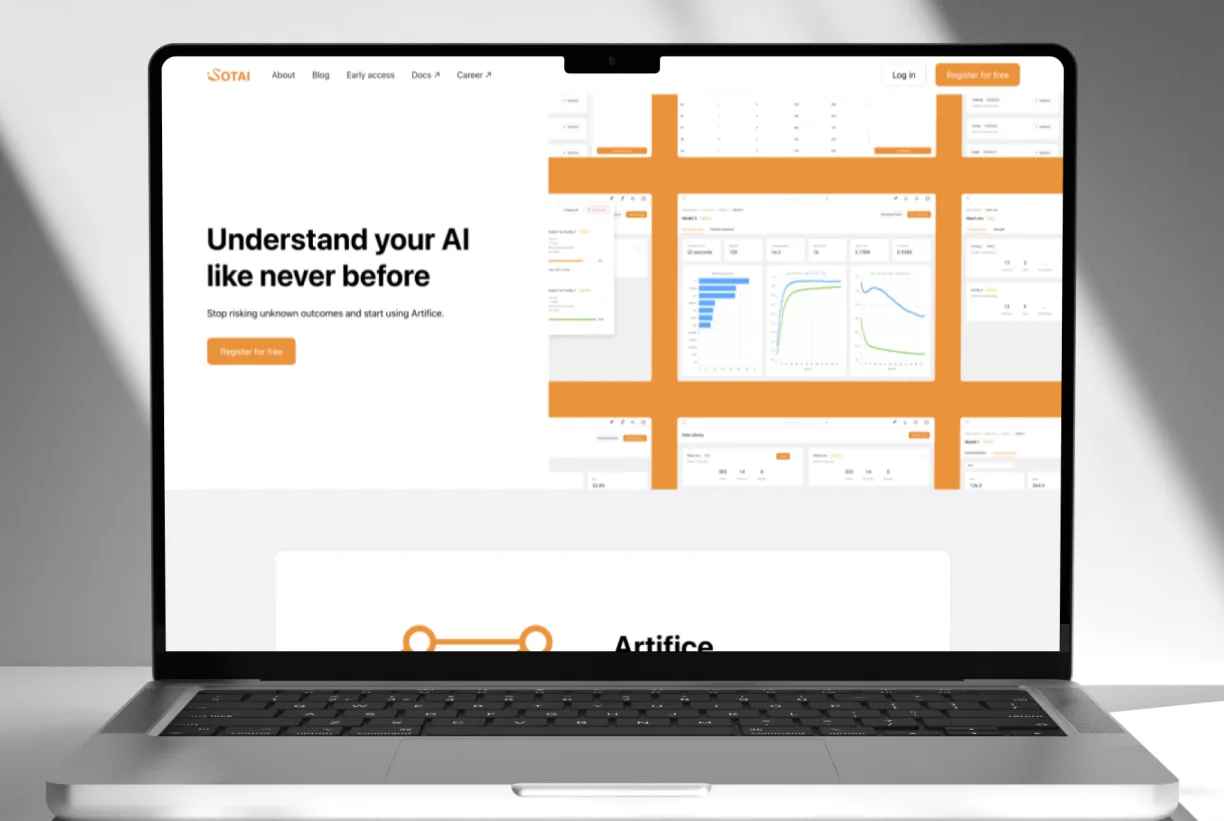
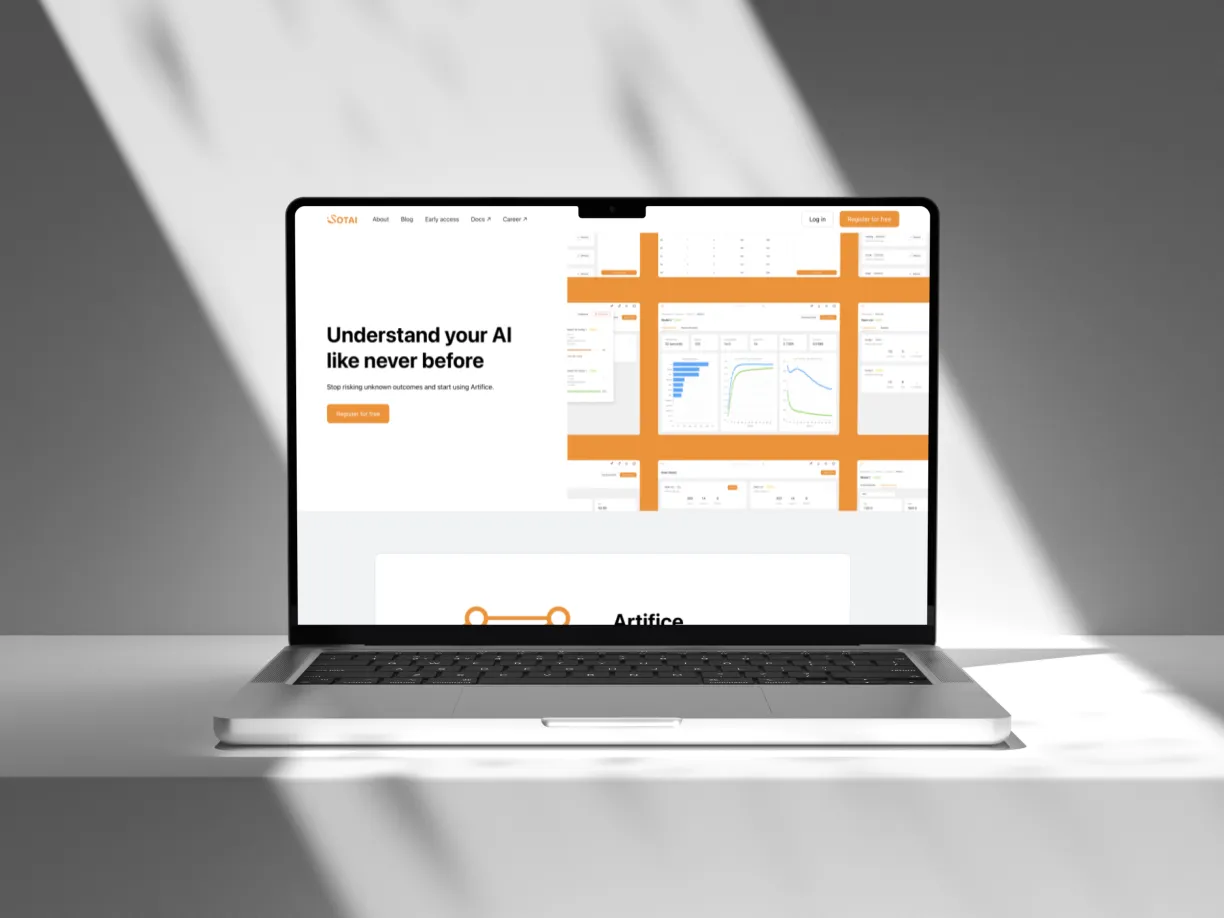
Mirascope: SOTAI home page back to the full studio mockup, uncropped

diff --git a/app/work/mirascope/page.tsx b/app/work/mirascope/page.tsx
@@ -165,7 +165,7 @@ export default function Mirascope() {
         src="sotai-website.webp"
         caption="SOTAI's home page, which I designed in early 2023, in a mockup made for the studio's portfolio."
         width={1224}
-        height={821}
+        height={918}
       />
 
       <p className={styles.body}>
